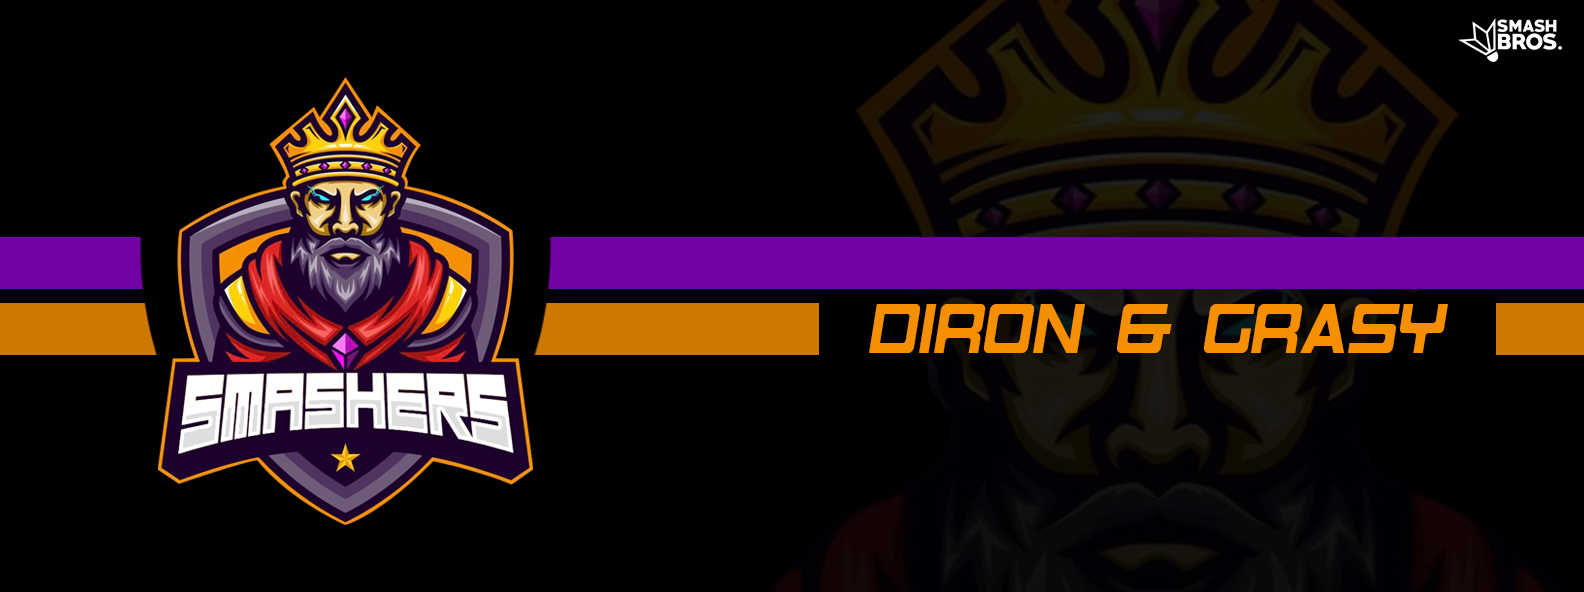
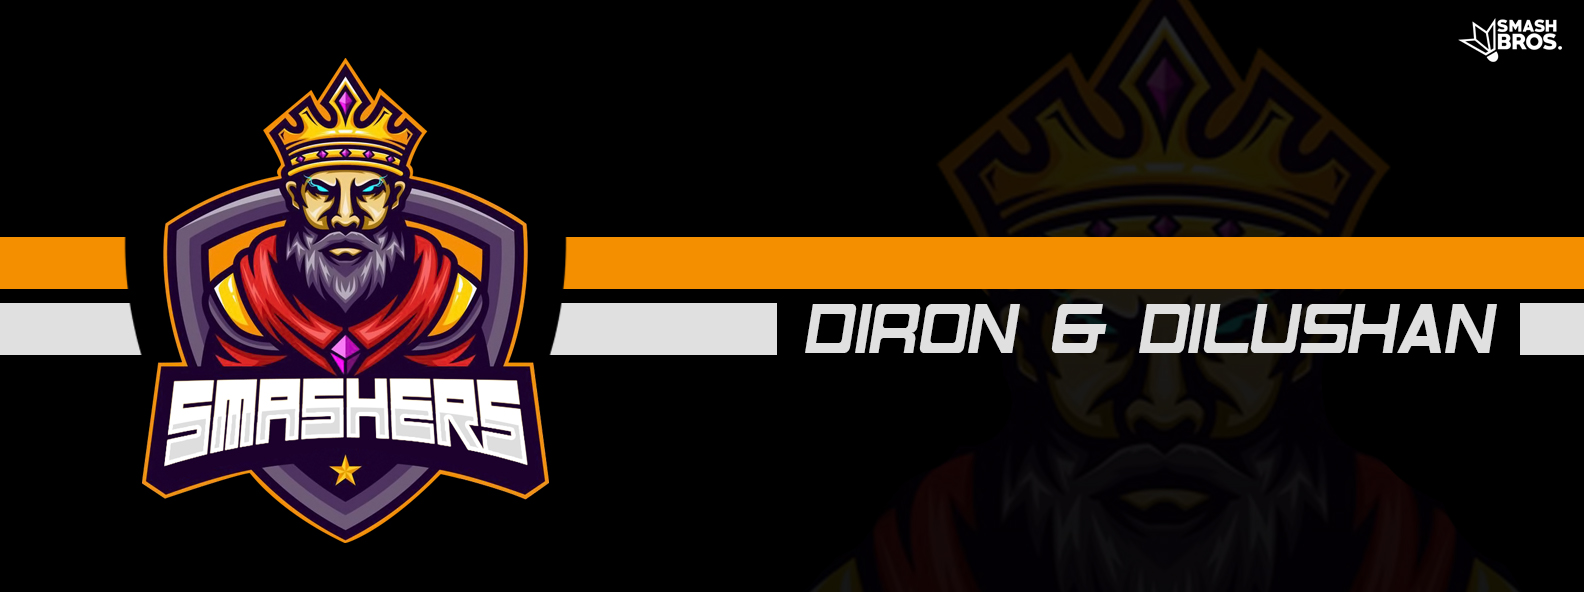
New Team added

Changed region(s): [[0.0, 0.0, 1.0, 0.9122]]

diff --git a/components/containers/home-two/Results.tsx b/components/containers/home-two/Results.tsx
@@ -9,6 +9,7 @@ import Titans from "@/public/images/teams/logo/Titans.png";
 import TBaddies from "@/public/images/teams/logo/Team Baddies.png";
 import Smashers from "@/public/images/teams/logo/Smashers.png";
 import DRogers from "@/public/images/teams/logo/Dark Rogers.png";
+import Venpura from "@/public/images/teams/logo/Venpura.png";
 import axios from "axios";
 import { useEffect, useState } from "react";
 
@@ -114,6 +115,7 @@ const Results = () => {
                             item.team_1 === 'Dark Rogers' ? DRogers :
                               item.team_1 === 'Smashers' ? Smashers :
                                 item.team_1 === 'Team Baddies' ? TBaddies :
+                                  item.team_1 === 'Venpura' ? Venpura :
                                   Titans
                         } alt={item.team_1} priority />
                         <h5 style={{ whiteSpace: 'nowrap' }}>{item.team_1}</h5>
@@ -130,6 +132,7 @@ const Results = () => {
                             item.team_2 === 'Dark Rogers' ? DRogers :
                               item.team_2 === 'Smashers' ? Smashers :
                                 item.team_2 === 'Team Baddies' ? TBaddies :
+                                  item.team_1 === 'Venpura' ? Venpura :
                                   Titans
                         } alt={item.team_2} priority />
                         <h5 style={{ whiteSpace: 'nowrap' }}>{item.team_2}</h5>
@@ -146,6 +149,7 @@ const Results = () => {
                           item.winner === 'Dark Rogers' ? '#8544ff' :
                             item.winner === 'Smashers' ? '#ff6000' :
                               item.winner === 'Team Baddies' ? '#c02247' :
+                                item.winner === 'Venpura' ? '#00fff2' :
                                 '#c0cf01',
                         color: 'white',
                         fontSize: 14,

diff --git a/components/containers/home-two/Fixtures.tsx b/components/containers/home-two/Fixtures.tsx
@@ -9,6 +9,7 @@ import Titans from "@/public/images/teams/logo/Titans.png";
 import TBaddies from "@/public/images/teams/logo/Team Baddies.png";
 import Smashers from "@/public/images/teams/logo/Smashers.png";
 import DRogers from "@/public/images/teams/logo/Dark Rogers.png";
+import Venpura from "@/public/images/teams/logo/Venpura.png";
 import axios from "axios";
 import { useEffect, useState } from "react";
 
@@ -96,6 +97,7 @@ const Fixtures = () => {
                             item.team_1 === 'Dark Rogers' ? DRogers :
                               item.team_1 === 'Smashers' ? Smashers :
                                 item.team_1 === 'Team Baddies' ? TBaddies :
+                                  item.team_1 === 'Venpura' ? Venpura :
                                   Titans
                         } alt={item.team_1} priority />
                         <h5  style={{ whiteSpace: 'nowrap' }}>{item.team_1}</h5>
@@ -107,6 +109,7 @@ const Fixtures = () => {
                             item.team_2 === 'Dark Rogers' ? DRogers :
                               item.team_2 === 'Smashers' ? Smashers :
                                 item.team_2 === 'Team Baddies' ? TBaddies :
+                                  item.team_2 === 'Venpura' ? Venpura :
                                   Titans
                         } alt={item.team_2} priority />
                         <h5 style={{ whiteSpace: 'nowrap' }}>{item.team_2}</h5>

diff --git a/components/layout/banner/TeamBanner.tsx b/components/layout/banner/TeamBanner.tsx
@@ -14,6 +14,9 @@ import teamBaddiesLogo from "@/public/images/teams/logo/Team Baddies.png";
 import smashersBanner from "@/public/images/teams/banners/Smashers Banner.jpg";
 import smashersLogo from "@/public/images/teams/logo/Smashers.png";
 
+import venpuraBanner from "@/public/images/teams/banners/Venpura Banner.jpg";
+import venpuraLogo from "@/public/images/teams/logo/Venpura.png";
+
 import Image from 'next/image';
 import AboutCraft from '@/components/containers/about/AboutCraft';
 import TeamCraft from '@/components/containers/about/TeamCraft';
@@ -86,7 +89,20 @@ const TeamBanner = () => {
         />
           
       </div>
-      <TeamCraft no={5} name={'Smashers'} players="Diron / Grasian" rank={'N/A'} logo={smashersLogo} color='#7103a4'/>
+      <TeamCraft no={5} name={'Smashers'} players="Diron / Dilushan" rank={'N/A'} logo={smashersLogo} color='#7103a4'/>
+      </>
+      <>
+      <AboutTextSlider text="VENPURA"/>
+      <div className=" parallax-img text-center">
+        <Image
+          src={venpuraBanner}
+          alt="Team Banner"
+          priority
+          layout="responsive"
+        />
+          
+      </div>
+      <TeamCraft no={6} name={'Venpura'} players="Kathires / Kumar" rank={'N/A'} logo={venpuraLogo} color='#ffffff'/>
       </>
     </section>
   );

diff --git a/components/containers/pointsTable/PointsTable.tsx b/components/containers/pointsTable/PointsTable.tsx
@@ -8,17 +8,9 @@ import codeRed from "@/public/images/teams/logo/Code Red.png";
 import darkRogers from "@/public/images/teams/logo/Dark Rogers.png";
 import teamBaddies from "@/public/images/teams/logo/Team Baddies.png";
 import titans from "@/public/images/teams/logo/Titans.png";
+import venpura from "@/public/images/teams/logo/Venpura.png";
 import axios from 'axios';
 
-
-const teams: any[] = [
-    { name: 'Code Red', logo: codeRed, played: 0, won: 0, lost: 0, tied: 0, points: 0, nrr: 0 },
-    { name: 'Dark Rogers', logo: darkRogers, played: 0, won: 0, lost: 0, tied: 0, points: 0, nrr: 0 },
-    { name: 'Smashers', played: 0, won: 0, lost: 0, tied: 0, points: 0, nrr: 0 },
-    { name: 'Team Baddies', logo: teamBaddies, played: 0, won: 0, lost: 0, tied: 0, points: 0, nrr: 0 },
-    { name: 'Titans', logo: titans, played: 0, won: 0, lost: 0, tied: 0, points: 0, nrr: 0 },
-    { name: 'Team 6', played: 0, won: 0, lost: 0, tied: 0, points: 0, nrr: 0 },
-];
 
 const PointTable: React.FC = () => {
     const [data, setData] = useState<any>([])

diff --git a/components/containers/home-three/Sponsor.tsx b/components/containers/home-three/Sponsor.tsx
@@ -9,10 +9,11 @@ import team2 from "@/public/images/teams/logo/Code Red.png";
 import team3 from "@/public/images/teams/logo/Dark Rogers.png";
 import team4 from "@/public/images/teams/logo/Team Baddies.png";
 import team5 from "@/public/images/teams/logo/Smashers.png";
+import team6 from "@/public/images/teams/logo/Venpura.png";
 
 const Sponsor = ({color}:any) => {
 
-  const teamImages = [team1, team2, team3, team4, team5];
+  const teamImages = [team1, team2, team3, team4, team5, team6];
 
 const renderSlides = () => {
   const slides:any = [];
